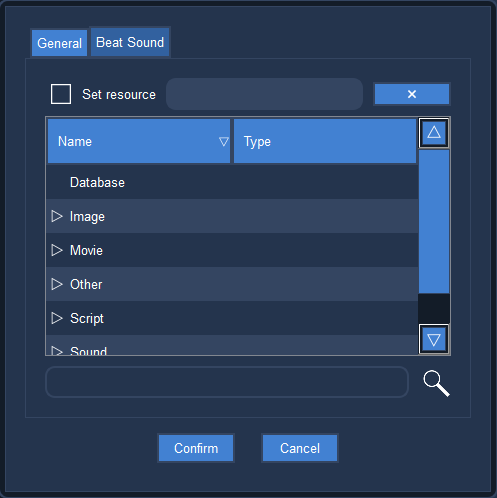
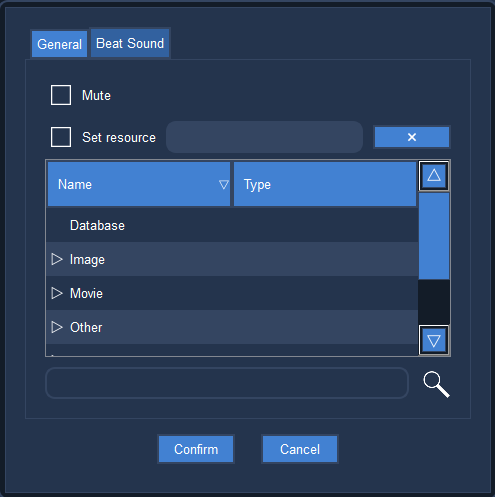
Metronome is mutable

diff --git a/resources/help/editor/addmetronome_button_help.html b/resources/help/editor/addmetronome_button_help.html
@@ -80,6 +80,7 @@
     <i>Set resource</i> will generate code to set the currently selected Resource as the beat sound effect for
     future calls to <i>start</i>. If no <i>Sound</i> type resource is selected,
     checking the checkbox will generate code to reset the sound to the default one.<br>
+    To mute or unmute the metronome, the <i>Mute</i> checkbox can be checked or unchecked.<br>
       <ul>
         <li><b>Generated code example for <i>Set resource</i>:</b> metronome.setBeatResource("thing"); // valid resource selected</li>
         <li><b>Generated code example for <i>Set resource</i>:</b> metronome.setBeatResource(null); // invalid or no resource selected</li>

diff --git a/resources/help/editor/code/script_reference_help.html b/resources/help/editor/code/script_reference_help.html
@@ -271,6 +271,14 @@
         metronome.setBeatResource(null);<br>
         <br></li>
 
+        <li><b>setMuted ( boolean ):</b><br>
+        This function is used to mute beat. When muted, the metronome will simply display visuals
+        without playing a sound.<br>
+        <i>Example Usage:</i><br>
+        metronome.setMuted(true);<br>
+        metronome.setMuted(false);<br>
+        <br></li>
+
         <li><b>setPattern ( real[] ):</b><br>
         This function is used to set the pattern of the beat. This pattern will repeat until
         the metronome is playing and will determine, how the intervals between beats are streched.

diff --git a/resources/qml/MetronomeItem.qml b/resources/qml/MetronomeItem.qml
@@ -12,6 +12,7 @@ Rectangle {
     property int bpm: 60
     property var pattern: [ 1 ]
     property bool running: counter.running
+    property bool muted: false
 
     function start()
     {
@@ -107,6 +108,7 @@ Rectangle {
         height: parent.height
 
         beatResource: metronomeItem.beatResource
+        muted: metronomeItem.muted
         tickColor: root.style.metronomeDisplay.ticksColor
 
         onTickReachedCenter: {

diff --git a/resources/qml/PlayerMetronome.qml b/resources/qml/PlayerMetronome.qml
@@ -42,6 +42,9 @@ Rectangle {
                 }
             }
         }
+        onSetMuted: {
+            metronomeDisplay.muted = bMuted;
+        }
         onSetPattern: {
             metronomeDisplay.pattern = vdPattern;
         }

diff --git a/src/Player/MetronomePaintedWidget.cpp b/src/Player/MetronomePaintedWidget.cpp
@@ -15,7 +15,8 @@ CMetronomeCanvasQml::CMetronomeCanvasQml(QQuickItem* pParent) :
   m_sBeatResource(":/resources/sound/metronome_default.wav"),
   m_tickColor(Qt::white),
   m_vdTickmap(),
-  m_iLastAutioPlayer(0)
+  m_iLastAutioPlayer(0),
+  m_bMuted(false)
 {
   for (qint32 i = 0; c_iNumAutioEmitters > i; ++i)
   {
@@ -81,6 +82,33 @@ void CMetronomeCanvasQml::SetBeatResource(const QString& sResource)
 
 //----------------------------------------------------------------------------------------
 //
+bool CMetronomeCanvasQml::Muted() const
+{
+  return m_bMuted;
+}
+
+//----------------------------------------------------------------------------------------
+//
+void CMetronomeCanvasQml::SetMuted(bool bMuted)
+{
+  if (m_bMuted != bMuted)
+  {
+    m_bMuted = bMuted;
+    if (m_bMuted)
+    {
+      for (qint32 i = 0; static_cast<qint32>(m_vspPlayers.size()) > i; ++i)
+      {
+        if (m_vspPlayers[i]->isPlaying())
+        {
+          m_vspPlayers[i]->stop();
+        }
+      }
+    }
+  }
+}
+
+//----------------------------------------------------------------------------------------
+//
 const QColor& CMetronomeCanvasQml::TickColor() const
 {
   return m_tickColor;
@@ -131,20 +159,23 @@ void CMetronomeCanvasQml::update(double dIntervalMs)
       *it = 1.0;
       it = m_vdTickmap.erase(it);
 
-      // play sound
-      if (-1 < m_iLastAutioPlayer && static_cast<qint32>(m_vspPlayers.size()) > m_iLastAutioPlayer)
+      if (!m_bMuted)
       {
-        if (m_vspPlayers[m_iLastAutioPlayer]->isPlaying())
+        // play sound
+        if (-1 < m_iLastAutioPlayer && static_cast<qint32>(m_vspPlayers.size()) > m_iLastAutioPlayer)
         {
-          m_vspPlayers[m_iLastAutioPlayer]->stop();
+          if (m_vspPlayers[m_iLastAutioPlayer]->isPlaying())
+          {
+            m_vspPlayers[m_iLastAutioPlayer]->stop();
+          }
+          m_vspPlayers[m_iLastAutioPlayer]->play();
         }
-        m_vspPlayers[m_iLastAutioPlayer]->play();
-      }
 
-      // next audio player
-      if (static_cast<qint32>(m_vspPlayers.size()) <= ++m_iLastAutioPlayer)
-      {
-        m_iLastAutioPlayer = 0;
+        // next audio player
+        if (static_cast<qint32>(m_vspPlayers.size()) <= ++m_iLastAutioPlayer)
+        {
+          m_iLastAutioPlayer = 0;
+        }
       }
 
       emit tickReachedCenter();

diff --git a/src/Player/MetronomePaintedWidget.h b/src/Player/MetronomePaintedWidget.h
@@ -13,6 +13,7 @@ class CMetronomeCanvasQml : public QQuickPaintedItem
 {
   Q_OBJECT
   Q_PROPERTY(QString beatResource READ BeatResource WRITE SetBeatResource NOTIFY beatResourceChanged)
+  Q_PROPERTY(bool  muted READ Muted WRITE SetMuted NOTIFY mutedChanged)
   Q_PROPERTY(QColor  tickColor READ TickColor WRITE SetTickColor NOTIFY tickColorChanged)
 
 public:
@@ -23,6 +24,8 @@ public:
 
   const QString& BeatResource() const;
   void SetBeatResource(const QString& sResource);
+  bool Muted() const;
+  void SetMuted(bool bMuted);
   const QColor& TickColor() const;
   void SetTickColor(const QColor& color);
 
@@ -33,6 +36,7 @@ public slots:
 
 signals:
   void beatResourceChanged();
+  void mutedChanged();
   void tickColorChanged();
   void tickReachedCenter();
 
@@ -42,6 +46,7 @@ private:
   QColor                                       m_tickColor;
   std::vector<double>                          m_vdTickmap;
   qint32                                       m_iLastAutioPlayer;
+  bool                                         m_bMuted;
 };
 
 #endif // CMETRONOMEPAINTEDWIDGET_H

diff --git a/src/Editor/Script/MetronomeSnippetOverlay.cpp b/src/Editor/Script/MetronomeSnippetOverlay.cpp
@@ -208,6 +208,14 @@ void CMetronomeSnippetOverlay::SlotPatternValueChanged(double dValue)
 
 //----------------------------------------------------------------------------------------
 //
+void CMetronomeSnippetOverlay::on_pMuteCheckBox_toggled(bool bValue)
+{
+  if (!m_bInitialized) { return; }
+  m_data.m_bSetMute = bValue;
+}
+
+//----------------------------------------------------------------------------------------
+//
 void CMetronomeSnippetOverlay::on_pSetBeatSoundCheckBox_toggled(bool bState)
 {
   if (!m_bInitialized) { return; }
@@ -272,6 +280,10 @@ void CMetronomeSnippetOverlay::on_pConfirmButton_clicked()
     }
     sCode += sText.arg(vsPatternElems.join(","));
   }
+
+  sCode += QString("metronome.setMuted(%1);\n")
+      .arg(m_data.m_bSetMute ? "true" : "false");
+
   if (m_data.m_bSetBeatSound)
   {
     EResourceType type = EResourceType::eSound;

diff --git a/src/Editor/Script/MetronomeSnippetOverlay.h b/src/Editor/Script/MetronomeSnippetOverlay.h
@@ -20,6 +20,7 @@ struct SMetronomeSnippetCode
   qint32 m_iBpm = 60;
   bool m_bSetPattern = false;
   std::map<qint32, double> m_vdPatternElems;
+  bool m_bSetMute = false;
   bool m_bSetBeatSound = false;
   QString m_sBeatSound = QString();
 };
@@ -55,6 +56,7 @@ protected slots:
   void on_AddPatternElemButton_clicked();
   void on_RemovePatternElemButton_clicked();
   void SlotPatternValueChanged(double dValue);
+  void on_pMuteCheckBox_toggled(bool bValue);
   void on_pSetBeatSoundCheckBox_toggled(bool bState);
   void on_pResourceLineEdit_editingFinished();
   void on_pFilter_SignalFilterChanged(const QString& sText);

diff --git a/src/Systems/Script/ScriptMetronome.cpp b/src/Systems/Script/ScriptMetronome.cpp
@@ -100,6 +100,14 @@ void CScriptMetronome::setBeatResource(QJSValue resource)
 
 //----------------------------------------------------------------------------------------
 //
+void CScriptMetronome::setMuted(bool bMuted)
+{
+  if (!CheckIfScriptCanRun()) { return; }
+  emit SignalEmitter<CMetronomeSignalEmitter>()->setMuted(bMuted);
+}
+
+//----------------------------------------------------------------------------------------
+//
 void CScriptMetronome::setPattern(const QList<double>& vdPattern)
 {
   if (!CheckIfScriptCanRun()) { return; }

diff --git a/src/Systems/Script/ScriptMetronome.h b/src/Systems/Script/ScriptMetronome.h
@@ -21,6 +21,7 @@ public:
 signals:
   void setBpm(qint32 iBpm);
   void setBeatResource(const QString& sResource);
+  void setMuted(bool bMuted);
   void setPattern(const QList<double>& vdPattern);
   void start();
   void stop();
@@ -42,6 +43,7 @@ public:
 public slots:
   void setBpm(qint32 iBpm);
   void setBeatResource(QJSValue resource);
+  void setMuted(bool bMuted);
   void setPattern(const QList<double>& vdPattern);
   void start();
   void stop();
